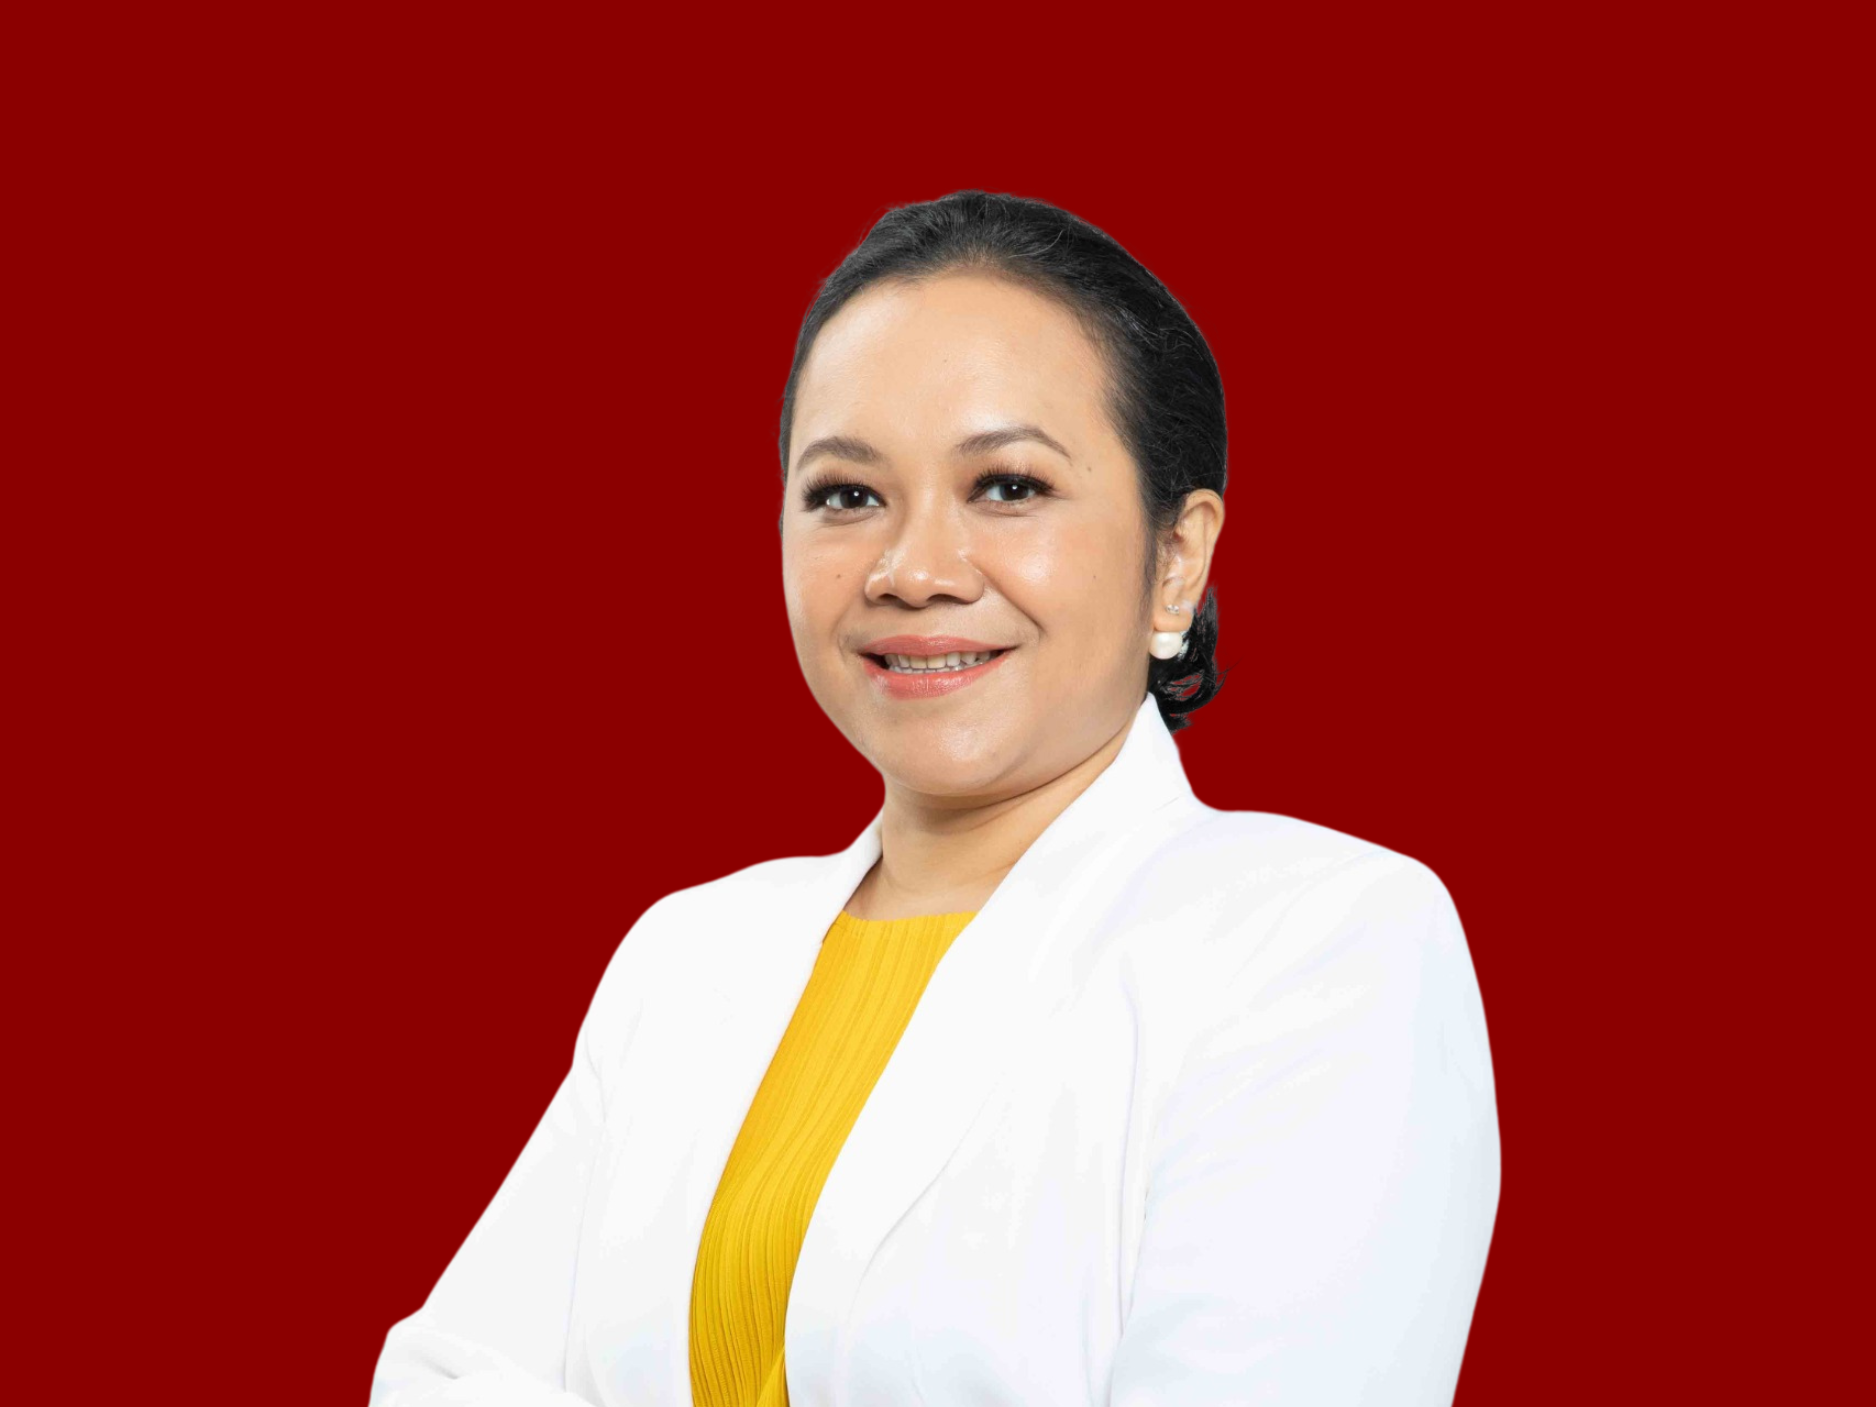
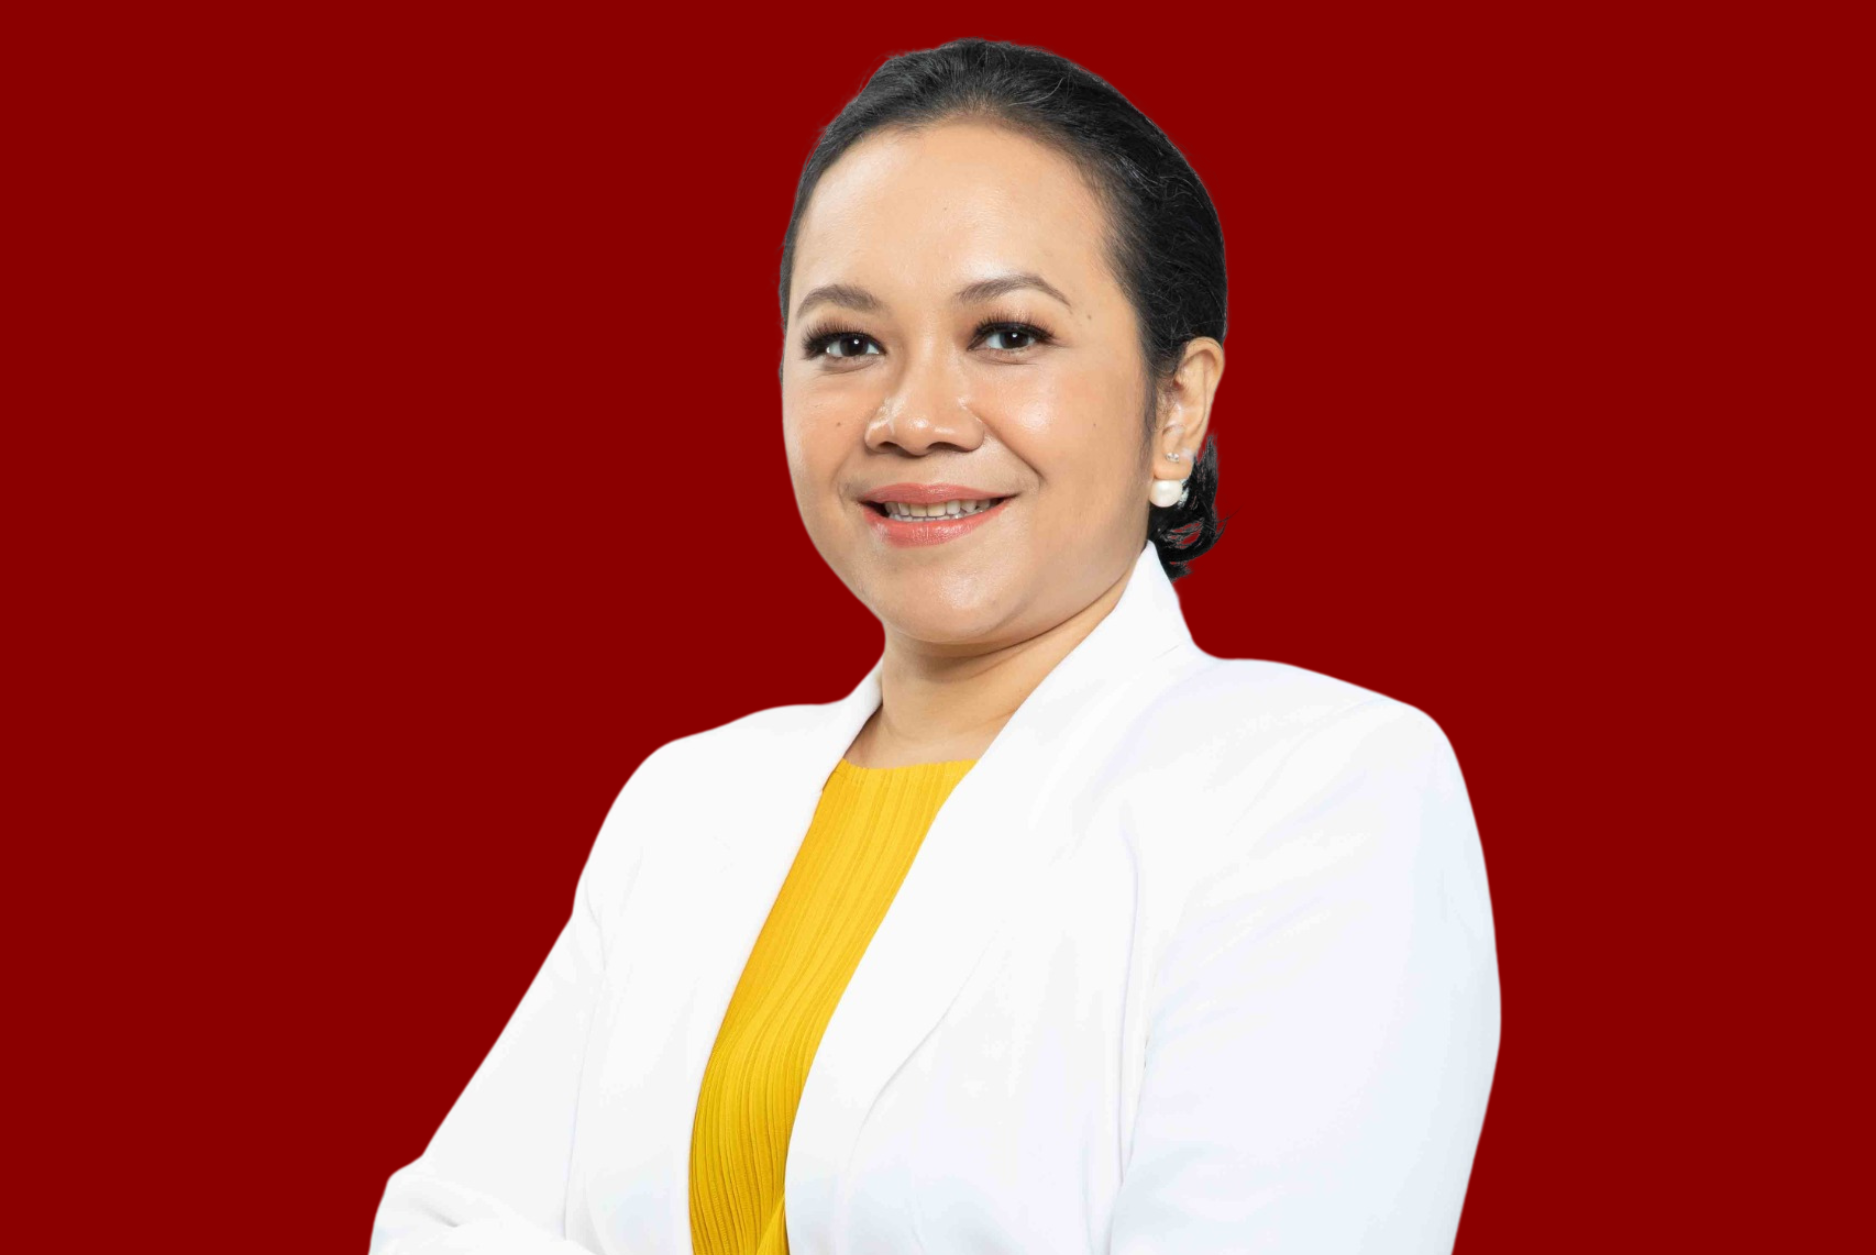
Update foto pak deden

diff --git a/resources/views/partials/navbar.blade.php b/resources/views/partials/navbar.blade.php
@@ -141,9 +141,11 @@
                 </button>
 
                 <ul class="nav-dropdown-content">
-                    <li><a href="{{ url('/program#prestasi-siswa') }}" class="dropdown-item">Program Kemataulian</a>
+                    <li><a href="{{ url('/program#kemataulian') }}" class="dropdown-item">Program Kemataulian</a>
                     </li>
-                    <li><a href="{{ url('/program#ekstrakulikuler') }}" class="dropdown-item">Program Pre-IB</a>
+                    <li><a href="{{ url('/program#preIB') }}" class="dropdown-item">Program Pre-IB</a>
+                    </li>
+                    <li><a href="{{ url('/program#kemendikdasmen') }}" class="dropdown-item">Program Kemendikdasmen</a>
                     </li>
                 </ul>
             </li>
@@ -305,12 +307,16 @@
                     </svg>
                 </button>
                 <ul class="mobile-dropdown-content bg-gray-50">
-                    <li><a href="{{ url('/program#prestasi-siswa') }}"
+                    <li><a href="{{ url('/program#kemataulian') }}"
                             class="block px-10 py-3 text-sm font-medium text-gray-700 hover:bg-orange-100 hover:text-orange-600 transition-colors">Program
                             Kemataulian</a></li>
-                    <li><a href="{{ url('/program#ekstrakulikuler') }}"
+                    <li><a href="{{ url('/program#preIB') }}"
                             class="block px-10 py-3 text-sm font-medium text-gray-700 hover:bg-orange-100 hover:text-orange-600 transition-colors">Program
                             Pre-IB</a>
+                    </li>
+                    <li><a href="{{ url('/program#kemendikdasmen') }}"
+                            class="block px-10 py-3 text-sm font-medium text-gray-700 hover:bg-orange-100 hover:text-orange-600 transition-colors">Program
+                            Kemendikdasmen</a>
                     </li>
                 </ul>
             </li>

diff --git a/resources/views/partials/sections/home/tentang.blade.php b/resources/views/partials/sections/home/tentang.blade.php
@@ -30,10 +30,11 @@
                     <div
                         class="w-52 h-52 md:w-60 md:h-60 lg:w-64 lg:h-64 rounded-full bg-linear-to-br from-red-800 to-red-950 p-1.5 shadow-2xl shadow-red-900/30">
                         <div class="w-full h-full rounded-full overflow-hidden bg-gray-100">
-                            <img src="assets/pak kepsek deden_merah maroon.png" alt="Kepala Sekolah"
-                                class="w-full h-full object-cover">
+                            <img src="assets/Pak_Deden.png" alt="Kepala Sekolah"
+                                class="width: 100%; height: 100%; object-fit: cover; object-position: center 0%; margin-top: 0;">
                         </div>
                     </div>
+
 
                     {{-- NAME BADGE --}}
                     <div

diff --git a/resources/views/partials/sections/ekstrakurikuler/heading.blade.php b/resources/views/partials/sections/ekstrakurikuler/heading.blade.php
@@ -9,8 +9,7 @@
                 Wadah pengembangan minat dan bakat siswa untuk membentuk karakter unggul, mandiri, dan kreatif.
             </p>
 
-              <div
-                class="w-30 h-0.5 bg-matauli-orange mx-auto mt-2 mb-4 md:mb-6 rounded-full">
+            <div class="w-30 h-0.5 bg-yellow-400 mx-auto mt-2 mb-4 md:mb-6 rounded-full">
             </div>
         </div>
     </div>

diff --git a/resources/views/partials/sections/fasilitas-sekolah/fasilitas.blade.php b/resources/views/partials/sections/fasilitas-sekolah/fasilitas.blade.php
@@ -9,8 +9,7 @@
                 dan pembelajaran berbasis teknologi.
             </p>
 
-              <div
-                class="w-30 h-0.5 bg-matauli-orange mx-auto mt-2 mb-4 md:mb-6 rounded-full">
+            <div class="w-30 h-0.5 bg-yellow-400 mx-auto mt-2 mb-4 md:mb-6 rounded-full">
             </div>
         </div>
     </div>
